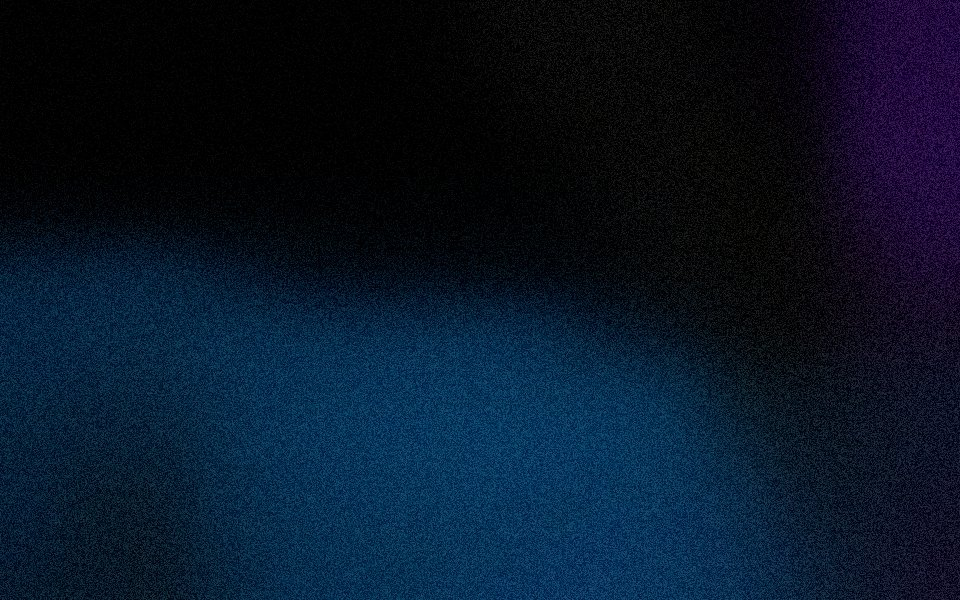
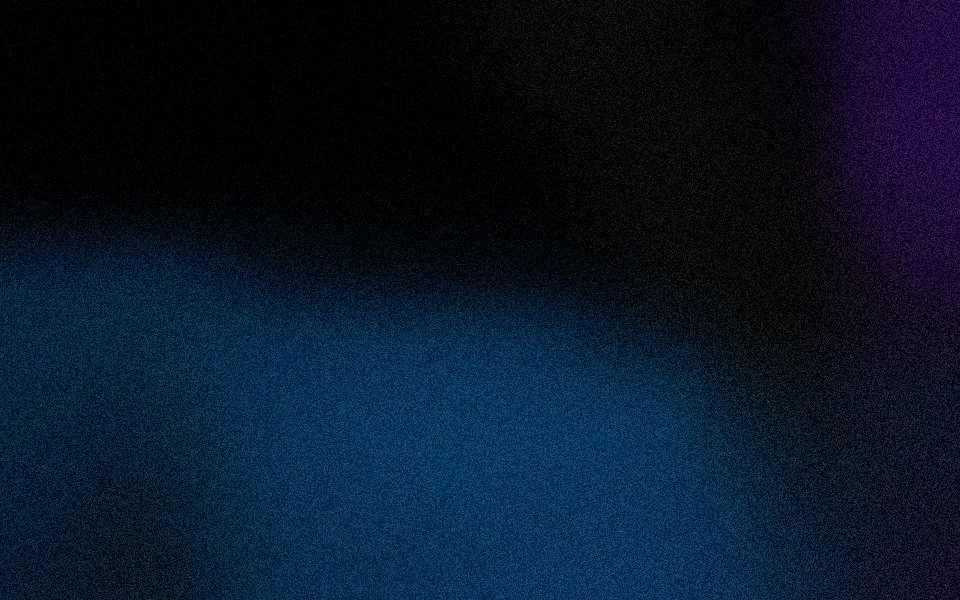
fix: smooth stripe fibres and rebuild clouds on real fractal noise
Stripes: each fibre was a 28-segment polyline, so its corners survived
the blur as kinks shared across neighbouring fibres. Fibres are now cubic
Hermite curves with the wave's analytic slope at every knot.

Clouds: the field was tiny random grids upscaled bilinearly and pushed
hard in contrast, which read as blocks. It is now domain-warped
gradient-noise fBm evaluated per pixel in resolution-independent units,
mapped through the palette with a soft shoulder, then lightly blurred.
Preview evaluates ~300k pixels, export ~2M, so the same seed gives the
same sky at every size. Landing imagery re-rendered.

Claude-Session: https://claude.ai/code/session_01TvxpAFkjbkUr6Co8KDi7xg

Changed region(s): [[0.0, 0.0, 1.0, 1.0], [0.7188, 0.39, 0.75, 0.42], [0.625, 0.0, 0.6562, 0.03]]

diff --git a/lib/gradient-renderer.ts b/lib/gradient-renderer.ts
@@ -346,6 +346,22 @@ const renderStripes = (
           (0.35 + (w.grow * (x + diag)) / (2 * diag)),
       0
     );
+  // Analytic dy/dx of waveOffset, so each fibre can be drawn as cubic
+  // Hermite segments with exact tangents instead of a polyline. That is
+  // what keeps the curves smooth: a polyline's corners survive the blur
+  // and read as kinks, especially where several fibres share the same x.
+  const waveSlope = (x: number, t: number) =>
+    waviness *
+    waves.reduce((acc, w) => {
+      const arg = w.freq * x + w.phase + t * 5;
+      const envelope = 0.35 + (w.grow * (x + diag)) / (2 * diag);
+      return (
+        acc +
+        w.amp *
+          (w.freq * Math.cos(arg) * envelope +
+            (Math.sin(arg) * w.grow) / (2 * diag))
+      );
+    }, 0);
 
   // Base bands: linear gradient perpendicular to the flow
   ctx.save();
@@ -375,14 +391,32 @@ const renderStripes = (
   // palette near their band position with a brightness push; folds are
   // broad white/black bands whose luminance modulation gives the sheet
   // its 3D drape. Same counts at every resolution for an identical look.
-  const SEGMENTS = 28;
+  // Cubic Hermite segments: y and dy/dx are exact at every knot, so the
+  // stroke is C1-smooth no matter how few knots there are.
+  const SEGMENTS = 32;
   const strokeWave = (t: number, baseY: number, fan: number) => {
+    const step = (2 * diag) / SEGMENTS;
+    const third = step / 3;
+    let x0 = -diag;
+    let y0 = baseY + waveOffset(x0, t) + fan * x0;
+    let m0 = waveSlope(x0, t) + fan;
     ctx.beginPath();
-    for (let s = 0; s <= SEGMENTS; s++) {
-      const x = -diag + (2 * diag * s) / SEGMENTS;
-      const y = baseY + waveOffset(x, t) + fan * x;
-      if (s === 0) ctx.moveTo(x, y);
-      else ctx.lineTo(x, y);
+    ctx.moveTo(x0, y0);
+    for (let s = 1; s <= SEGMENTS; s++) {
+      const x1 = -diag + step * s;
+      const y1 = baseY + waveOffset(x1, t) + fan * x1;
+      const m1 = waveSlope(x1, t) + fan;
+      ctx.bezierCurveTo(
+        x0 + third,
+        y0 + m0 * third,
+        x1 - third,
+        y1 - m1 * third,
+        x1,
+        y1
+      );
+      x0 = x1;
+      y0 = y1;
+      m0 = m1;
     }
     ctx.stroke();
   };
@@ -470,10 +504,66 @@ const renderStripes = (
   ctx.globalAlpha = 1;
 };
 
-// "Clouds": fbm noise mapped through the palette. Value noise comes from
-// seeded coarse random grids upscaled with bilinear smoothing; summing
-// octaves gives the fractal cloud field. A seeded directional ramp biases
-// the field so one side stays denser, like a real sky.
+// --- Smooth 2D noise for the clouds -----------------------------------------
+// Seeded, hash-based gradient (Perlin-style) noise with a quintic fade.
+// Evaluated per pixel in resolution-independent units, so every canvas
+// size shows the same sky and there is no upscaled grid to leave blocks.
+
+const hash2 = (x: number, y: number, seed: number) => {
+  let h = Math.imul(x, 374761393) ^ Math.imul(y, 668265263) ^ seed;
+  h = Math.imul(h ^ (h >>> 13), 1274126177);
+  return h ^ (h >>> 16);
+};
+
+// Eight unit-ish gradient directions; picking by hash bits avoids trig
+const GRAD_X = [1, -1, 0, 0, 0.7071, -0.7071, 0.7071, -0.7071];
+const GRAD_Y = [0, 0, 1, -1, 0.7071, 0.7071, -0.7071, -0.7071];
+
+const fade = (t: number) => t * t * t * (t * (t * 6 - 15) + 10);
+
+// Returns roughly [-1, 1]
+const gradientNoise = (x: number, y: number, seed: number) => {
+  const xi = Math.floor(x);
+  const yi = Math.floor(y);
+  const xf = x - xi;
+  const yf = y - yi;
+  const u = fade(xf);
+  const v = fade(yf);
+  const g00 = hash2(xi, yi, seed) & 7;
+  const g10 = hash2(xi + 1, yi, seed) & 7;
+  const g01 = hash2(xi, yi + 1, seed) & 7;
+  const g11 = hash2(xi + 1, yi + 1, seed) & 7;
+  const n00 = GRAD_X[g00] * xf + GRAD_Y[g00] * yf;
+  const n10 = GRAD_X[g10] * (xf - 1) + GRAD_Y[g10] * yf;
+  const n01 = GRAD_X[g01] * xf + GRAD_Y[g01] * (yf - 1);
+  const n11 = GRAD_X[g11] * (xf - 1) + GRAD_Y[g11] * (yf - 1);
+  const nx0 = n00 + (n10 - n00) * u;
+  const nx1 = n01 + (n11 - n01) * u;
+  return nx0 + (nx1 - nx0) * v;
+};
+
+// Fractal sum of octaves; weights are normalised by the caller
+const fbm = (
+  x: number,
+  y: number,
+  seed: number,
+  weights: number[],
+  weightSum: number
+) => {
+  let sum = 0;
+  let f = 1;
+  for (let o = 0; o < weights.length; o++) {
+    sum += weights[o] * gradientNoise(x * f, y * f, seed + o * 7919);
+    f *= 2;
+  }
+  return sum / weightSum;
+};
+
+// "Clouds": domain-warped fractal noise mapped through the palette. The
+// warp bends the field so cloud edges wisp and curl instead of blobbing;
+// a seeded directional ramp keeps one side of the sky denser, like a real
+// one. Softness is a final blur; detail scales the fine octaves; coverage
+// biases the whole mapping toward the highlight colours.
 const renderClouds = (
   ctx: CanvasRenderingContext2D,
   width: number,
@@ -482,69 +572,37 @@ const renderClouds = (
   random: () => number
 ) => {
   const stops = [opts.backgroundColor, ...opts.colors].map(hexToRgbTuple);
-  const aspect = width / height;
 
-  // The field is smooth (bilinear-upscaled grids) and gets softened after
-  // mapping, so the preview maps it through the palette at a capped size
-  // and upscales — the per-pixel loop is the only real cost here. Export
-  // (blurScale 1) maps every pixel at full resolution.
-  const MAP_PIXEL_BUDGET = 360_000;
-  const mapScale =
-    opts.blurScale < 1
-      ? Math.min(1, Math.sqrt(MAP_PIXEL_BUDGET / (width * height)))
-      : 1;
+  // The field is smooth and gets softened afterwards, so it is evaluated
+  // at a capped size and upscaled. Preview stays interactive; export maps
+  // ~2M pixels, which the blur then carries to 4K without visible loss.
+  const MAP_PIXEL_BUDGET = opts.blurScale < 1 ? 300_000 : 2_100_000;
+  const mapScale = Math.min(1, Math.sqrt(MAP_PIXEL_BUDGET / (width * height)));
   const mapW = Math.max(1, Math.round(width * mapScale));
   const mapH = Math.max(1, Math.round(height * mapScale));
-
-  // Octave value-noise: coarse seeded grids, bilinear-upscaled. Grid sizes
-  // are resolution-independent so every canvas size shows the same clouds.
-  const field = opts.createCanvas(mapW, mapH);
-  const fieldCtx = field.getContext("2d")!;
-  fieldCtx.fillStyle = "#000000";
-  fieldCtx.fillRect(0, 0, mapW, mapH);
-  fieldCtx.globalCompositeOperation = "lighter";
-  fieldCtx.imageSmoothingEnabled = true;
-  fieldCtx.imageSmoothingQuality = "high";
 
   const coverage = opts.coverage ?? 1;
   const softness = opts.softness ?? 1;
   const detail = opts.detail ?? 1;
 
-  const OCTAVES = 5;
-  // Detail scales the high-frequency octaves; the noise value gets
-  // renormalized by the total weight during mapping
-  const baseWeights = [0.55, 0.3, 0.1, 0.05, 0.025];
-  const weights = baseWeights.map((w, o) => (o < 2 ? w : w * detail));
-  const weightSum = weights.reduce((a, b) => a + b, 0);
-  for (let o = 0; o < OCTAVES; o++) {
-    const gw = Math.max(2, Math.round(3 * 2 ** o * aspect));
-    const gh = Math.max(2, 3 * 2 ** o);
-    const grid = opts.createCanvas(gw, gh);
-    const gridCtx = grid.getContext("2d")!;
-    const cells = gridCtx.createImageData(gw, gh);
-    for (let i = 0; i < cells.data.length; i += 4) {
-      const v = Math.round(random() * 255);
-      cells.data[i] = v;
-      cells.data[i + 1] = v;
-      cells.data[i + 2] = v;
-      cells.data[i + 3] = 255;
-    }
-    gridCtx.putImageData(cells, 0, 0);
-
-    fieldCtx.globalAlpha = weights[o];
-    fieldCtx.drawImage(grid, 0, 0, mapW, mapH);
-  }
-  fieldCtx.globalAlpha = 1;
-  fieldCtx.globalCompositeOperation = "source-over";
-
-  // Directional ramp for the macro composition (denser toward one corner)
+  // Seeds and composition are drawn from the RNG in a fixed order so the
+  // same seed always gives the same sky at any size
+  const seedA = Math.floor(random() * 2 ** 31);
+  const seedB = Math.floor(random() * 2 ** 31);
+  const seedC = Math.floor(random() * 2 ** 31);
   const rampAngle = random() * Math.PI * 2;
+  const offsetX = random() * 64;
+  const offsetY = random() * 64;
   const rdx = Math.cos(rampAngle);
   const rdy = Math.sin(rampAngle);
-  // Ramp is expressed in map-space; it's scale-invariant so the look is
-  // identical at any mapping size
-  const rampSpan = Math.abs(rdx * mapW) + Math.abs(rdy * mapH) || 1;
-  const rampBase = (Math.min(0, rdx * mapW) + Math.min(0, rdy * mapH)) * -1;
+
+  // Octave weights: the two coarse octaves carry the masses, the rest add
+  // texture and answer to the detail dial
+  const baseWeights = [0.6, 0.25, 0.1, 0.04, 0.015];
+  const weights = baseWeights.map((w, o) => (o < 2 ? w : w * detail));
+  const weightSum = weights.reduce((a, b) => a + b, 0);
+  const warpWeights = [0.6, 0.4];
+  const warpSum = warpWeights.reduce((a, b) => a + b, 0);
 
   // Palette lookup table: t quantized to 1/1023, well under 8-bit output
   // precision, so the loop does an index instead of an interpolation
@@ -557,44 +615,56 @@ const renderClouds = (
     lut[k * 3 + 2] = b;
   }
 
-  // Map field + ramp through the palette, per pixel
-  const fieldData = fieldCtx.getImageData(0, 0, mapW, mapH).data;
+  const field = opts.createCanvas(mapW, mapH);
+  const fieldCtx = field.getContext("2d")!;
   const out = fieldCtx.createImageData(mapW, mapH);
   const outData = out.data;
-  const noiseK = 1 / 255 / weightSum;
-  const rampK = 1 / rampSpan;
+
+  // Base frequency: a couple of cells across the height, so masses stay big
+  const FREQ = 2.2;
+  const WARP = 0.35;
+  const unit = FREQ / mapH;
+  // Ramp spans the canvas along its direction, in [0, 1]
+  const rampSpan = Math.abs(rdx * mapW) + Math.abs(rdy * mapH) || 1;
+  const rampBase = -(Math.min(0, rdx * mapW) + Math.min(0, rdy * mapH));
   const coverageBias = (coverage - 1) * 0.3;
+
   for (let y = 0; y < mapH; y++) {
+    const py = y * unit + offsetY;
     const rowRamp = rampBase + rdy * y;
     for (let x = 0; x < mapW; x++) {
+      const px = x * unit + offsetX;
+      // Domain warp: displace the lookup by a coarser noise pair
+      const qx = fbm(px + 5.2, py + 1.3, seedB, warpWeights, warpSum);
+      const qy = fbm(px + 1.7, py + 9.2, seedC, warpWeights, warpSum);
+      const n = fbm(px + WARP * qx, py + WARP * qy, seedA, weights, weightSum);
+      const ramp = (rowRamp + rdx * x) / rampSpan;
+      // Gradient noise sits mostly within ±0.6; open it up gently rather
+      // than clipping, so masses separate from sky but edges stay soft
+      let t = 0.5 + n * 0.8 + (ramp - 0.5) * 0.6 + coverageBias;
+      t = t < 0 ? 0 : t > 1 ? 1 : t;
+      // Smoothstep for a soft shoulder at both palette ends
+      t = t * t * (3 - 2 * t);
+      const k = (t * (LUT_SIZE - 1) + 0.5) | 0;
       const i = (y * mapW + x) * 4;
-      const noise = fieldData[i] * noiseK;
-      const ramp = (rowRamp + rdx * x) * rampK;
-      // Push contrast so cloud masses separate from sky and the palette
-      // extremes (deep background, bright highlights) actually appear.
-      // Coverage biases the whole mapping toward the highlight colors.
-      let t = 0.45 * (0.5 + (noise - 0.5) * 2.3) + 0.55 * ramp + coverageBias;
-      t = (t - 0.5) * 1.5 + 0.5;
-      const k = (Math.max(0, Math.min(1, t)) * (LUT_SIZE - 1) + 0.5) | 0;
       outData[i] = lut[k * 3];
       outData[i + 1] = lut[k * 3 + 1];
       outData[i + 2] = lut[k * 3 + 2];
       outData[i + 3] = 255;
     }
   }
-  // Reuse the field canvas (its pixels are already read out) as the
-  // mapped image, then scale it onto the target
+
   fieldCtx.putImageData(out, 0, 0);
   ctx.imageSmoothingEnabled = true;
   ctx.imageSmoothingQuality = "high";
   ctx.drawImage(field, 0, 0, width, height);
 
-  // Gentle soften to melt any bilinear grid artifacts into mist
+  // Softness: a light final blur turns fine texture into mist
   applyBlur(
     ctx,
     width,
     height,
-    44 * softness * (height / 2160),
+    28 * softness * (height / 2160),
     opts.createCanvas
   );
 };
